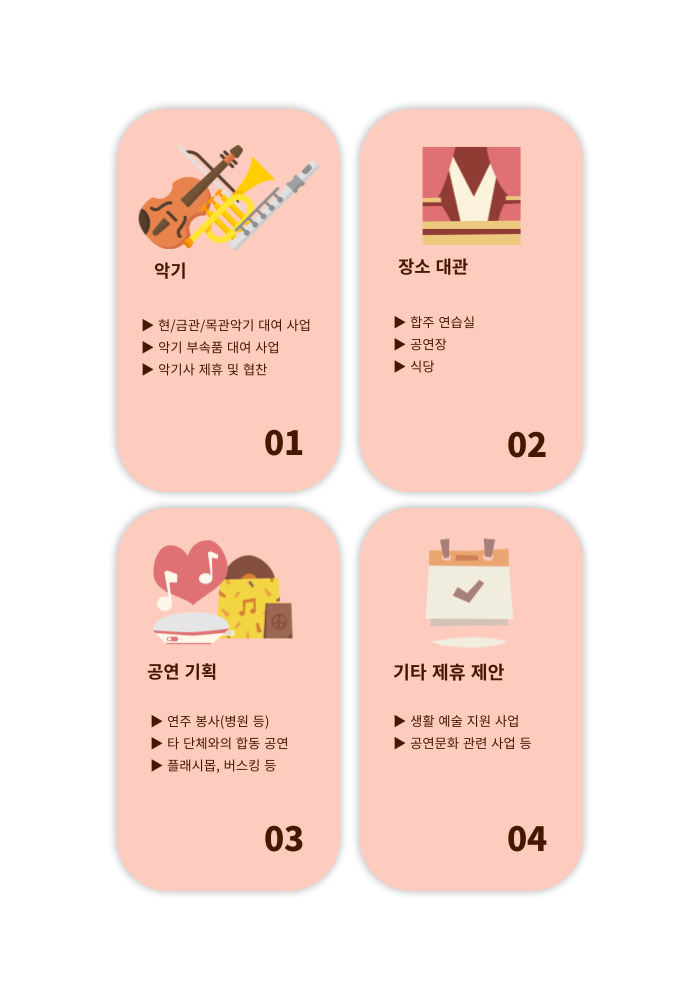
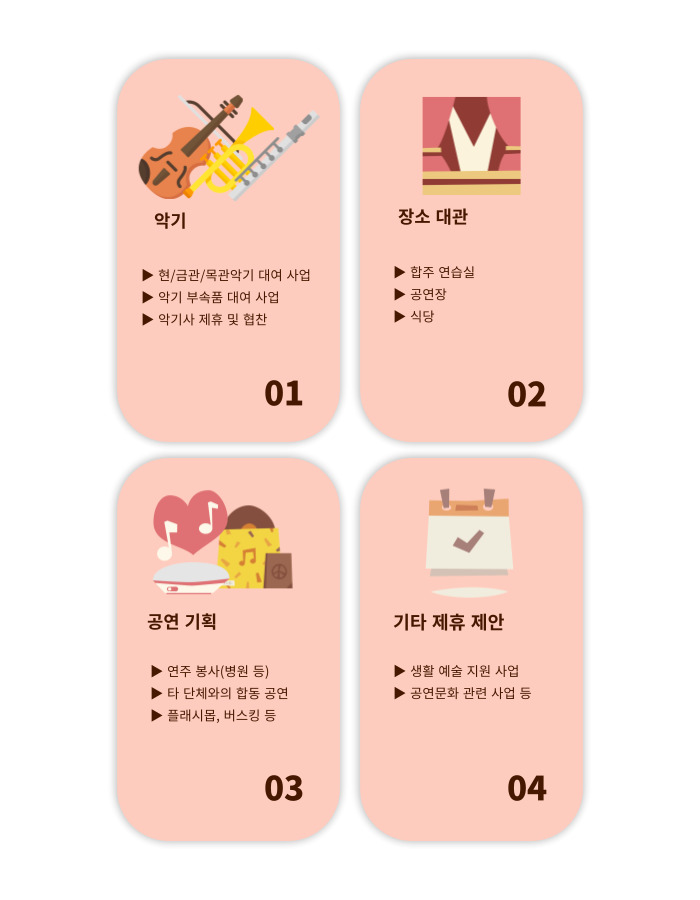
edit cooperation img_0920

diff --git a/public/css/cooperation.css b/public/css/cooperation.css
@@ -4,9 +4,6 @@
     align-items: center;
 }
 
-#handshake{
-    width:40%;
-}
 
 .please_call>p{
     text-align:center;
@@ -18,21 +15,9 @@
     justify-content:center;
     align-items:center;
     flex-direction:column;
-    margin-bottom:8%;
+    margin-bottom:2%;
 }
 
-.please_call>ul{
-    list-style: none;
-    font-size: 2rem;
-    font-weight: bold;
-    margin-bottom:5px;
-    margin-top:50px;
-}
-
-.please_call>li{
-    font-size:1.5rem;
-    margin-bottom:3px;
-}
 
 .plz1 {
     width: 80%;
@@ -154,7 +139,7 @@
 
     .plz3{
         display: flex;
-        width: 70%;
+        width: 66%;
     }
     
     .contact>img{

diff --git a/public/html/cooperation.html b/public/html/cooperation.html
@@ -86,7 +86,6 @@
 
 
     <div class="cooperate_with_KUPhil">
-        <img src="./image/제안.jpg" id="handshake">
         <div class="please_call">
             <img src="./image/plz1.jpg" class="plz1">
             <img src="./image/plz2.jpg" class="plz2">
